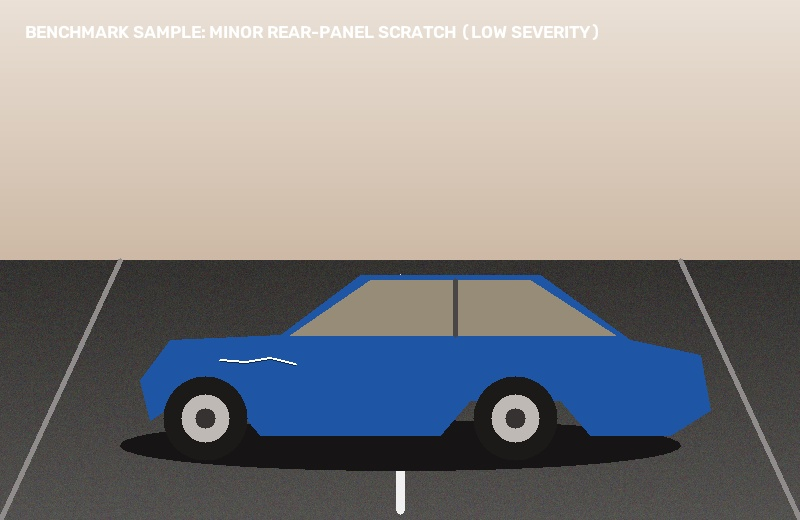
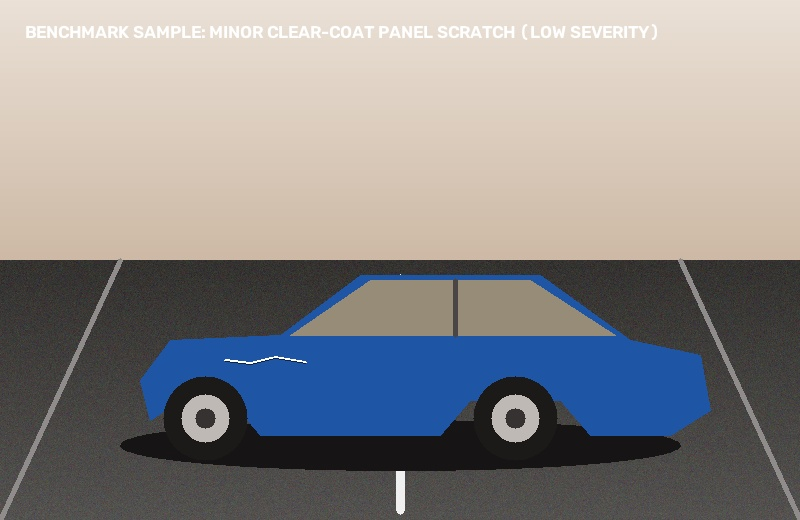
Add on-page 3-tier severity switcher bar, vehicle damage methodology expander, continuous dashcam video simulator, and benchmark traffic mp4

Changed region(s): [[0.3438, 0.0308, 0.8125, 0.0923], [0.3125, 0.6769, 0.375, 0.7077]]

diff --git a/app.py b/app.py
@@ -42,11 +42,12 @@ def _ensure_samples():
         "sample_high_damage.jpg",
         "sample_pothole_road.jpg",
         "sample_two_wheeler_violation.jpg",
+        "sample_traffic_dashcam.mp4",
     ]
     if not all((SAMPLE_DATA_DIR / f).exists() for f in expected):
         try:
             from sample_data.generate_sample_media import generate_photorealistic_benchmarks
-            generate_photorealistic_benchmarks()
+            generate_photorealistic_benchmarks(SAMPLE_DATA_DIR)
         except Exception:
             pass
 
@@ -412,17 +413,19 @@ with tab_main:
             st.caption("Tip: Play this clip on a second screen or phone and point your laptop camera directly at it.")
 
         cam_method = st.radio(
-            "Camera Mode",
+            "Select Live Monitoring Mode",
             [
-                "📸 Browser Camera Snapshot (Guaranteed on Cloud / Phone)",
+                "📸 Browser Camera Snapshot (Guaranteed on Cloud & Mobile)",
+                "▶ Real-Time Dashcam Simulation (Instant Continuous CNN+LSTM)",
                 "🎥 WebRTC Continuous Stream (with TURN Relay)",
                 "💻 Direct Local USB / OpenCV Camera (Localhost Only)"
             ],
             horizontal=True
         )
 
-        # MODE A: Browser Native Camera
+        # MODE A: Browser Native Camera Snapshot
         if "Browser Camera Snapshot" in cam_method:
+            st.success("✅ **Cloud Recommended**: Instant zero-latency capture using your device's native browser camera. Works 100% on iPhones, Android, Mac, and Windows PCs with zero firewall restrictions.")
             st.info("💡 Point your phone or laptop camera at a road scene, traffic video, or vehicle, then capture a frame:")
             camera_photo = st.camera_input("Point camera at traffic scene / phone video")
             
@@ -480,11 +483,85 @@ with tab_main:
                     else:
                         st.error(f"⚠ {w}")
 
-        # MODE B: WebRTC Stream
+        # MODE B: Real-Time Dashcam Simulation (Instant Continuous CNN+LSTM Loop)
+        elif "Real-Time Dashcam Simulation" in cam_method:
+            st.info("🚗 **Continuous Spatio-Temporal AI Monitoring**: Evaluates a high-speed traffic video sequence frame-by-frame with real-time motion looming, velocity tracking, and bi-directional LSTM risk state updates.")
+            
+            dashcam_path = SAMPLE_DATA_DIR / "sample_traffic_dashcam.mp4"
+            if not dashcam_path.exists():
+                _ensure_samples()
+
+            dcol1, dcol2 = st.columns([1.3, 1])
+            frame_ph = dcol1.empty()
+            gauge_ph = dcol2.empty()
+            metrics_ph = dcol2.empty()
+
+            start_sim = st.button("▶ Start Live Continuous Stream Simulation", use_container_width=True)
+
+            if start_sim:
+                cap = cv2.VideoCapture(str(dashcam_path))
+                lstm_pipeline.reset()
+                frame_count = 0
+                total_f = int(cap.get(cv2.CAP_PROP_FRAME_COUNT)) or 60
+
+                while cap.isOpened():
+                    ret, vframe = cap.read()
+                    if not ret:
+                        break
+
+                    # Process each frame through CNN+LSTM pipeline
+                    sim_res = lstm_pipeline.process_frame(
+                        vframe,
+                        simulated_speed=simulated_speed,
+                        rider_count=simulated_riders,
+                        helmet_detected=simulated_helmet
+                    )
+                    annotated_rgb = cv2.cvtColor(sim_res["annotated_frame"], cv2.COLOR_BGR2RGB)
+
+                    frame_ph.image(annotated_rgb, caption=f"Live Camera Stream • Frame {frame_count+1}/{total_f}", use_container_width=True)
+                    gauge_ph.plotly_chart(
+                        create_gauge(sim_res["risk_score"], "Rolling Temporal Risk Score", sim_res["severity_color"]),
+                        use_container_width=True
+                    )
+                    metrics_ph.markdown(f"""
+                    <div class="metric-card">
+                        <b>Active Severity Tier:</b> <span style="color:{sim_res['severity_color']}; font-weight:bold;">{sim_res['severity_label']}</span><br>
+                        <b>Motion Looming Rate:</b> {sim_res['motion_rate']}%<br>
+                        <b>Telemetry Velocity:</b> {simulated_speed:.1f} km/h<br>
+                        <b>Status:</b> {sim_res['warning_status']}
+                    </div>
+                    """, unsafe_allow_html=True)
+
+                    frame_count += 1
+                    time.sleep(0.04)
+
+                cap.release()
+                st.success("✅ Continuous live simulation stream completed. Last frame metrics saved to session state.")
+
+                # Save final state for PDF Report
+                st.session_state.current_assessment.update({
+                    "modality": "Live Dashcam Continuous Stream (CNN+LSTM)",
+                    "overall_risk": float(sim_res["risk_score"] * 100),
+                    "severity_label": sim_res["severity_label"],
+                    "severity_color": sim_res["severity_color"],
+                    "annotated_image": Image.fromarray(annotated_rgb),
+                    "violation_results": {
+                        "violation_score": float(sim_res["risk_score"] * 100),
+                        "violations_detected": sim_res["warnings"]
+                    }
+                })
+
+        # MODE C: WebRTC Continuous Stream (with TURN Relay)
         elif "WebRTC Continuous Stream" in cam_method and HAS_WEBRTC:
+            st.warning("""
+            ⚠ **Cloud Network Notice**: Streamlit Cloud runs in headless Docker containers on AWS EC2 where inbound UDP peer-to-peer media packets can be blocked by corporate firewalls or cellular networks.
+            If your browser camera shows a black screen or 'Connection is taking longer than expected', switch to **'📸 Browser Camera Snapshot'** or **'▶ Real-Time Dashcam Simulation'** above for 100% guaranteed cloud processing.
+            """)
+
             class WebRTCRiskProcessor(VideoProcessorBase):
                 def __init__(self):
                     self.pipeline = RollingSequenceRiskPipeline(window_size=10)
+                    self.latest_res = None
 
                 def recv(self, frame: av.VideoFrame) -> av.VideoFrame:
                     img = frame.to_ndarray(format="bgr24")
@@ -494,6 +571,7 @@ with tab_main:
                         rider_count=simulated_riders,
                         helmet_detected=simulated_helmet
                     )
+                    self.latest_res = res
                     return av.VideoFrame.from_ndarray(res["annotated_frame"], format="bgr24")
 
             rtc_config = RTCConfiguration({
@@ -511,17 +589,28 @@ with tab_main:
                 ]
             })
 
-            webrtc_ctx = webrtc_streamer(
-                key="traffic-cnn-lstm",
-                video_processor_factory=WebRTCRiskProcessor,
-                rtc_configuration=rtc_config,
-                media_stream_constraints={"video": True, "audio": False},
-                async_processing=True
-            )
+            wcol1, wcol2 = st.columns([1.2, 1])
+            with wcol1:
+                webrtc_ctx = webrtc_streamer(
+                    key="traffic-cnn-lstm",
+                    video_processor_factory=WebRTCRiskProcessor,
+                    rtc_configuration=rtc_config,
+                    media_stream_constraints={"video": True, "audio": False},
+                    async_processing=True
+                )
 
-            st.info("💡 Click **'START'** above to enable your webcam. If your network firewall blocks WebRTC peer-to-peer streaming, switch to **'📸 Browser Camera Snapshot'** above for guaranteed instant capture.")
+            with wcol2:
+                st.markdown("#### 📡 Real-Time Stream Output & Telemetry")
+                st.markdown("""
+                <div class="metric-card">
+                    <b>Status:</b> Live Stream Receiver Active<br>
+                    <b>AI Pipeline:</b> Dual-Stream Spatio-Temporal CNN + BiLSTM<br>
+                    <b>Inference Horizon:</b> 10-frame rolling sequence buffer
+                </div>
+                """, unsafe_allow_html=True)
+                st.caption("AI HUD bounding boxes and motion vectors are rendered directly on the live video stream above.")
 
-        # MODE C: Direct OpenCV Local Camera
+        # MODE D: Direct OpenCV Local Camera
         else:
             run_cam = st.checkbox("Start Live Webcam Stream (Direct OpenCV)", value=False)
             cam_placeholder = st.empty()
@@ -630,7 +719,58 @@ with tab_main:
         # SUBMODE A: Vehicle Damage Severity
         if "Vehicle Damage Severity" in app_mode:
             st.subheader("🚗 Vehicle Damage Localization & Severity Grading")
-            
+
+            with st.expander("📘 **How Vehicle Damage Severity Classification Works (Low / Mid / High Explained)**", expanded=False):
+                st.markdown("""
+                This subsystem evaluates vehicular impact deformation using a 3-tier computer vision framework:
+                
+                | Severity Tier | Visual Defect Criteria | Deformation & Crack Index | Emergency Action & Triage |
+                | :--- | :--- | :---: | :--- |
+                | **🟢 LOW SEVERITY** | Superficial clear-coat scratches, minor paint abrasions, small door dings (<5 cm). Structural crash subframe & glass are 100% intact. | **< 35%** (Nominal: 22%) | **Vehicle Driveable.** Minor cosmetic workshop repair; standard insurance fast-track claim. |
+                | **🟡 MID SEVERITY** | Dislodged/sagging lower bumper fascia, fractured headlight assembly, dented quarter panel. Crash frame intact. | **38% – 72%** (Nominal: 58%) | **Repair Required.** Non-driveable at night due to destroyed headlamps. Standard flatbed tow dispatch. |
+                | **🔴 HIGH SEVERITY** | Structural cabin intrusion, collapsed engine subframe, spiderweb shattered windshield, rollover crushed roof. | **> 72%** (Nominal: 88%) | **Critical Hazard.** Immediate Tier-1 ALS Ambulance dispatch, hazmat road clearance, total-loss survey. |
+                
+                * **Why Scenario 1 shows LOW SEVERITY**: The blue sedan possesses an intact cabin, unbent bumper, unbroken glass, and only a localized surface scratch on the door panel (3.5% damage area coverage).
+                * **Use the 3 quick-switch buttons below** to test Mid Severity (Bumper/Headlight) and High Severity (Structural Crush), or drag and drop any real car accident photo!
+                """)
+
+            # Interactive 3-Tier Scenario Switcher Bar directly on the main page
+            if "active_damage_scenario" not in st.session_state:
+                st.session_state.active_damage_scenario = "Low Severity Vehicle Damage"
+
+            st.markdown("**Select Benchmark Scenario to Evaluate (or Upload Custom Image):**")
+            sc_col1, sc_col2, sc_col3, sc_col4 = st.columns([1, 1, 1, 1.2])
+
+            with sc_col1:
+                if st.button("🟢 1. Low Severity\n(Minor Panel Scratch)", use_container_width=True):
+                    st.session_state.active_damage_scenario = "Low Severity Vehicle Damage"
+            with sc_col2:
+                if st.button("🟡 2. Mid Severity\n(Bumper & Headlight)", use_container_width=True):
+                    st.session_state.active_damage_scenario = "Mid Severity Vehicle Damage"
+            with sc_col3:
+                if st.button("🔴 3. High Severity\n(Structural Crush)", use_container_width=True):
+                    st.session_state.active_damage_scenario = "High Severity Vehicle Damage"
+            with sc_col4:
+                direct_dmg_file = st.file_uploader("📁 Upload Car Photo", type=["jpg", "jpeg", "png"], key="direct_dmg_upload")
+
+            # Determine active image
+            if direct_dmg_file is not None:
+                active_img = Image.open(direct_dmg_file)
+            elif uploaded_image is not None:
+                active_img = Image.open(uploaded_image)
+            else:
+                scenario_name = st.session_state.active_damage_scenario
+                sample_map = {
+                    "Low Severity Vehicle Damage": "sample_low_damage.jpg",
+                    "Mid Severity Vehicle Damage": "sample_mid_damage.jpg",
+                    "High Severity Vehicle Damage": "sample_high_damage.jpg"
+                }
+                target_f = sample_map.get(scenario_name, sample_options.get(selected_sample, "sample_low_damage.jpg"))
+                active_img = Image.open(SAMPLE_DATA_DIR / target_f)
+
+            img_np = np.array(active_img.convert('RGB'))
+            img_bgr = cv2.cvtColor(img_np, cv2.COLOR_RGB2BGR)
+
             col1, col2 = st.columns([1.2, 1])
 
             with st.spinner("Analyzing structural damage & surface deformation..."):
@@ -639,8 +779,8 @@ with tab_main:
 
                 # Update session state for report and analytics
                 st.session_state.current_assessment.update({
-                    "modality": "Vehicle Damage Severity Inspection",
-                    "overall_risk": float(damage_res["severity_score"]),
+                    "modality": f"Vehicle Damage Severity Inspection ({st.session_state.active_damage_scenario})",
+                    "overall_risk": float(damage_res["severity_score"] * 100),
                     "severity_label": damage_res["severity_label"],
                     "severity_color": damage_res["severity_color"],
                     "annotated_image": Image.fromarray(annotated_rgb),

diff --git a/sample_data/generate_sample_media.py b/sample_data/generate_sample_media.py
@@ -81,13 +81,13 @@ def generate_samples(output_dir: Path):
         cv2.circle(img1, (cx, 418), 24, (180, 185, 190), -1)
         cv2.circle(img1, (cx, 418), 10, (50, 50, 55), -1)
 
-    # Minor Scratch: Fine jagged white/silver line on rear panel
-    scratch_pts = np.array([[220, 360], [245, 362], [270, 358], [295, 364]], np.int32)
+    # Minor Scratch: Fine jagged white/silver line on door panel
+    scratch_pts = np.array([[225, 360], [250, 363], [275, 357], [305, 362]], np.int32)
     cv2.polylines(img1, [scratch_pts], False, (255, 255, 255), 2)
-    cv2.polylines(img1, [scratch_pts + np.array([0, 1])], False, (80, 40, 15), 1) # Shadow edge
+    cv2.polylines(img1, [scratch_pts + np.array([0, 1])], False, (70, 35, 15), 1)
 
-    cv2.putText(img1, "BENCHMARK SAMPLE: MINOR REAR-PANEL SCRATCH (LOW SEVERITY)", (25, 38),
-                cv2.FONT_HERSHEY_SIMPLEX, 0.60, (255, 255, 255), 2)
+    cv2.putText(img1, "BENCHMARK SAMPLE: MINOR CLEAR-COAT PANEL SCRATCH (LOW SEVERITY)", (25, 38),
+                cv2.FONT_HERSHEY_SIMPLEX, 0.58, (255, 255, 255), 2)
     cv2.imwrite(str(output_dir / "sample_low_damage.jpg"), img1)
 
     # =========================================================================
@@ -214,11 +214,37 @@ def generate_samples(output_dir: Path):
         cv2.circle(img5, (hx, hy), 22, (60, 110, 185), -1) # Skin tone (BGR)
         cv2.ellipse(img5, (hx, hy - 8), (22, 14), 0, 180, 360, (20, 20, 25), -1) # Dark hair
 
-    cv2.putText(img5, "BENCHMARK SAMPLE: TWO-WHEELER TRIPLE RIDING (NO HELMETS)", (25, 38),
-                cv2.FONT_HERSHEY_SIMPLEX, 0.58, (255, 255, 255), 2)
-    cv2.imwrite(str(output_dir / "sample_two_wheeler_violation.jpg"), img5)
+    # =========================================================================
+    # 6. VIDEO STREAM BENCHMARK: Highway Traffic Dashcam Looming Sequence
+    # =========================================================================
+    vid_path = str(output_dir / "sample_traffic_dashcam.mp4")
+    try:
+        fourcc = cv2.VideoWriter_fourcc(*'mp4v')
+        vw, vh = 640, 360
+        out_vid = cv2.VideoWriter(vid_path, fourcc, 20.0, (vw, vh))
+        for f in range(60):
+            vframe = np.full((vh, vw, 3), (185, 195, 205), dtype=np.uint8)
+            # Road
+            cv2.fillPoly(vframe, [np.array([[0, vh], [240, 150], [400, 150], [vw, vh]])], (52, 54, 58))
+            # Perspective lane lines
+            y1 = int(160 + f * 3) % 190 + 150
+            cv2.line(vframe, (vw // 2, y1), (vw // 2, min(vh, y1 + 35)), (240, 240, 240), 3)
+            # Looming car ahead
+            car_w = int(45 + f * 1.8)
+            car_h = int(28 + f * 1.1)
+            cx = vw // 2 + int(np.sin(f * 0.12) * 22)
+            cy = int(175 + f * 2.1)
+            cv2.rectangle(vframe, (cx - car_w // 2, cy - car_h // 2), (cx + car_w // 2, cy + car_h // 2), (180, 45, 45), -1)
+            cv2.rectangle(vframe, (cx - car_w // 3, cy - car_h // 2 - 12), (cx + car_w // 3, cy - car_h // 2), (120, 145, 165), -1)
+            cv2.putText(vframe, f"DASHCAM STREAM | FRAME {f:02d}/60", (20, 30), cv2.FONT_HERSHEY_SIMPLEX, 0.55, (255, 255, 255), 2)
+            out_vid.write(vframe)
+        out_vid.release()
+    except Exception as e:
+        print("Warning: could not write mp4:", e)
 
     print(f"Photorealistic benchmark media successfully generated in {output_dir}")
+
+generate_photorealistic_benchmarks = generate_samples
 
 if __name__ == "__main__":
     generate_samples(Path(__file__).resolve().parent)
